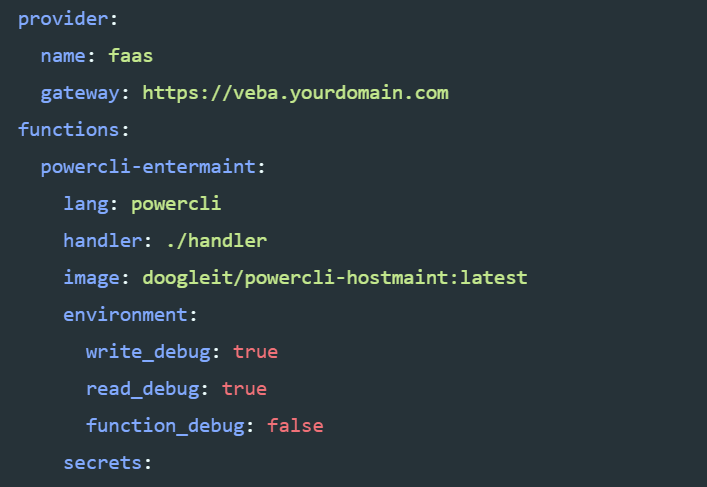
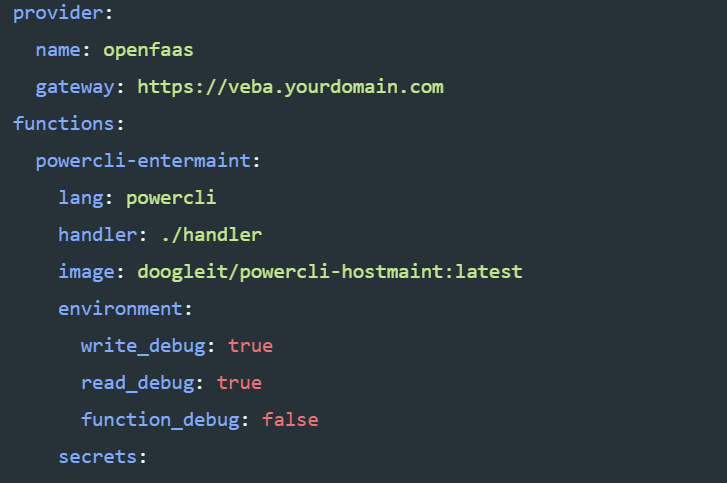
Update veba post

diff --git a/_posts/2019-11-29-automate-host-maintenance-with-the-vcenter-event-broker-appliance.md b/_posts/2019-11-29-automate-host-maintenance-with-the-vcenter-event-broker-appliance.md
@@ -7,16 +7,16 @@ header:
   og_image: /assets/images/stack.yml.png
 ---
 
-The vCenter Event Broker Appliance is a new [VMware Fling][2] and open source project that was recently [released at VMworld Europe][1].  A preview of it was also presented at VMworld US which I had the pleasure of attending.  If you haven't seen either of these sessions I highly recommend watching the recording of [#CODE1379E "If This Then That" for vSphere - The Power of Event Driven Automation session][11].  I'm quite interested in this project and really excited to see all of the cool automation the community does with it.
+The vCenter Event Broker Appliance is a new [VMware Fling][2] and open source project that was recently [released at VMworld Europe][1].  Using [OpenFaaS][12] and its vCenter [event connector][13] functions can be run based on vCenter events.  A preview of it was also presented at VMworld US which I had the pleasure of attending.  If you haven't seen either of these sessions I highly recommend watching the recording of [#CODE1379E "If This Then That" for vSphere - The Power of Event Driven Automation session][11].  I'm quite interested in this project and really excited to see all of the cool automation the community does with it.
 
-If you haven't deployed the appliance the [Getting Started][3] guide has all the details for getting it setup.  Also be sure to join the [VMware {Code} Slack channel][4]. All of my work is based on the existing samples [on GitHub][5] and Opvizor's excellent article: [Audit VM configuration changes using the vCenter Event Broker][6].  A huge thanks to these guys for all of their work.
+If you haven't deployed the appliance the [Getting Started][3] guide has all the details for getting it setup.  Also be sure to join the [VMware {Code} Slack channel][4]. All of my work is based on the existing samples [on GitHub][5] and Opvizor's excellent article: [Audit VM configuration changes using the vCenter Event Broker][6].  A huge thanks to these guys for all of their work and special thanks to [OpenFaaS][12] and Alex Ellis for making this all possible.
 
 This example will disable alarm actions on a host while it is in maintenance mode.  It is actually two functions using the same script.  The first function subscribes to the `entered.maintenance.mode` event to run when a host is put into maintenance mode and disable its alarms.  The second function subscribes to the `exit.maintenance.mode` event to re-enable alarms when the host exits maintenance mode.  The script looks at the event type (or in OpenFaaS speak the "topic") that called the function and performs the appropriate action to disable/enable alarms.  Here is what the stack.yml file looks like with both functions:
 
 ```yaml
 version: 1.0
 provider:
-  name: faas
+  name: openfaas
   gateway: https://veba.yourdomain.com
 functions:
   powercli-entermaint:
@@ -70,7 +70,7 @@ Finally modify the gateway in the stack.yml file with your vCenter Event Broker 
 
 ```yaml
 provider:
-  name: faas
+  name: openfaas
   gateway: https://veba.yourdomain.com
 ...
 ```
@@ -110,3 +110,5 @@ I was previously using [VMware Dispatch][7] to experiment with running functions
 [9]: https://doogleit.github.io/2019/07/automating-host-maintenance-with-dispatch/
 [10]: https://doogleit.github.io/2019/08/automating-host-maintenance-with-dispatch-part-2/
 [11]: https://videos.vmworld.com/global/2019/videoplayer/29523
+[12]: https://www.openfaas.com/
+[13]: https://github.com/openfaas-incubator/openfaas-vcenter-connector
